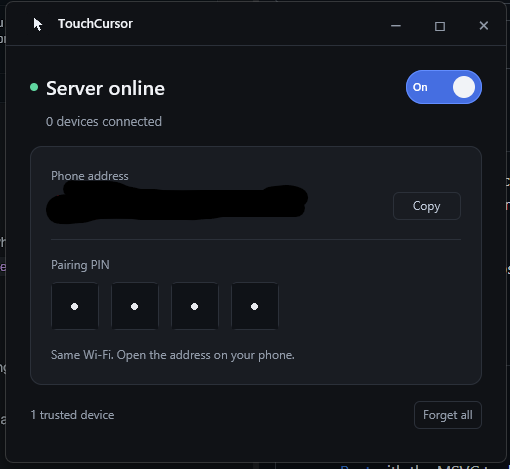
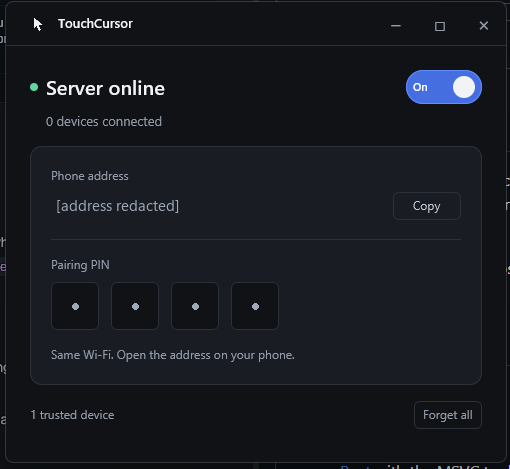
Clean up screenshot redactions and label private fields

Changed region(s): [[0.0882, 0.3881, 0.6176, 0.4776]]

diff --git a/README.md b/README.md
@@ -5,7 +5,9 @@ TouchCursor is a performance-focused minimal mouse controller that allows you to
 It pairs a native Windows host app with a touch-optimized web trackpad served over your local network.
 
 <p align="center">
-  <img src="assets/screenshot.png" alt="TouchCursor desktop window" width="380" />
+  <img src="assets/screenshot.png" alt="TouchCursor desktop window with phone address and pairing PIN redacted" width="380" />
+  <br />
+  <sub>Phone address and pairing PIN redacted.</sub>
 </p>
 
 ## Quick Start
